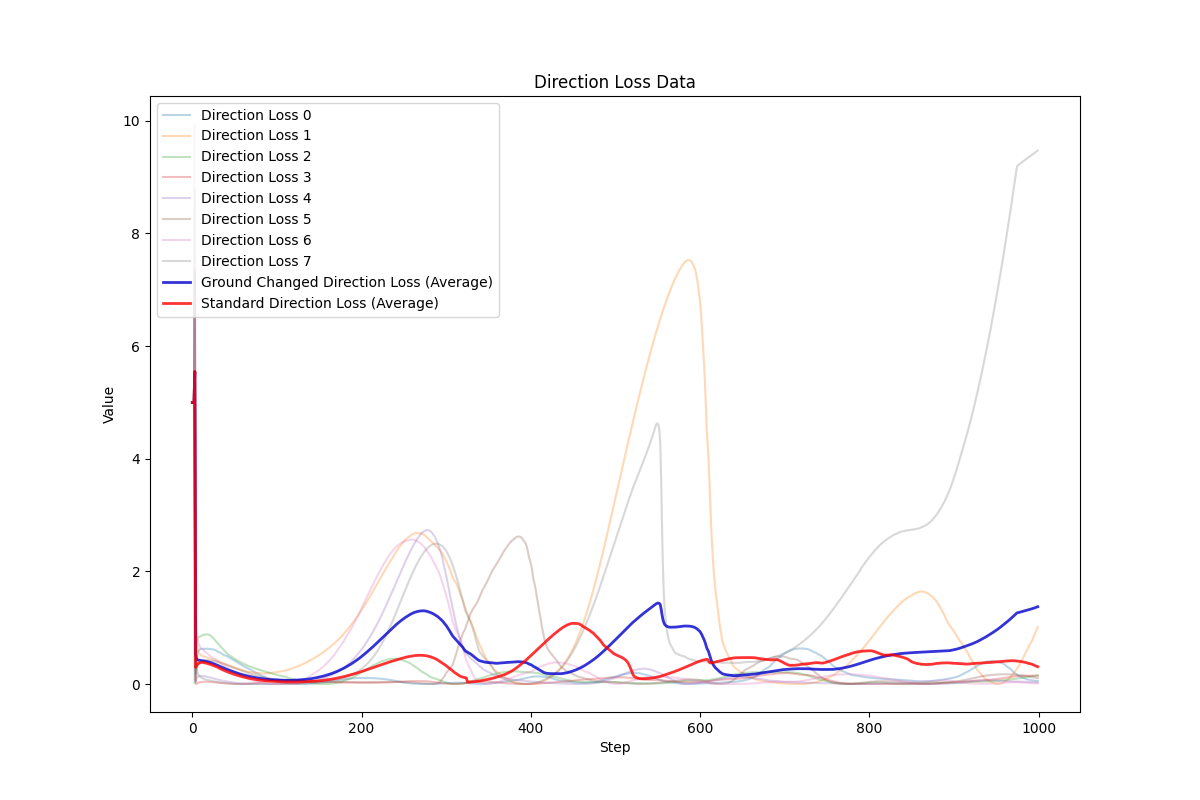
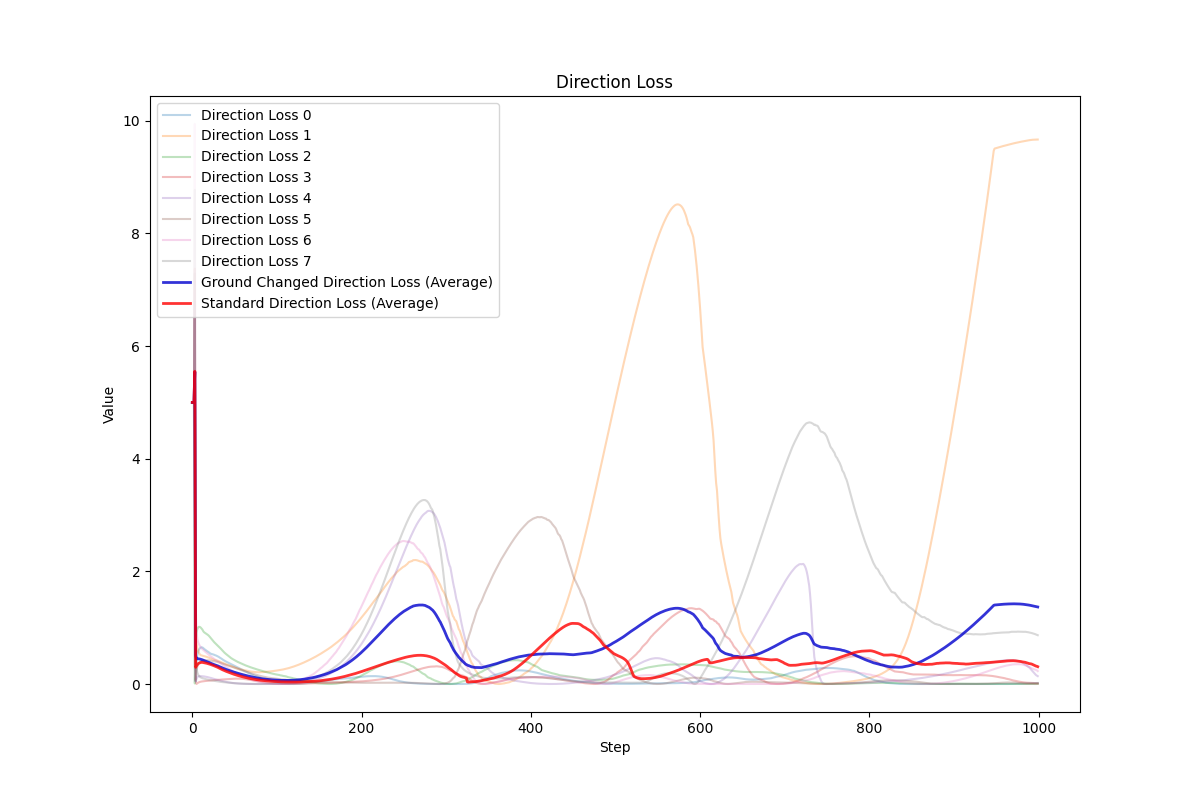
Update

diff --git a/aerial_gym/scripts/chart_maker.py b/aerial_gym/scripts/chart_maker.py
@@ -70,7 +70,7 @@ def main_test_moving():
     In order to compare changed test with original test.
     """
     # print("??????????")
-    ea = event_accumulator.EventAccumulator('/home/cgv841/wzm/FYP/AGAPG/paper_data/test_moving__2') 
+    ea = event_accumulator.EventAccumulator('/home/cgv841/wzm/FYP/AGAPG/paper_data/test_moving__1.5__h') 
     ea.Reload()
     # print(ea.scalars.Keys())
     # print("??????????")
@@ -79,18 +79,18 @@ def main_test_moving():
     data = defaultdict(list)
     
     for i in range(batch_size):
-        for data_name in ['Horizon Distance', 'Vertical Distance', 'Total Loss', 'Direction Loss', 'Speed Loss', 'Orientation Loss', 'Speed']:
+        for data_name in ['Horizon Distance', 'Vertical Distance', 'Total Loss', 'Direction Loss', 'Speed Loss', 'Orientation Loss', 'Speed', "Height"]:
             data_values = [j.value for j in ea.scalars.Items(f'{data_name}{i}')]
             data[data_name].append(data_values)
             
             
-    ea2 = event_accumulator.EventAccumulator('/home/cgv841/wzm/FYP/AGAPG/paper_data/test_main') 
+    ea2 = event_accumulator.EventAccumulator('/home/cgv841/wzm/FYP/AGAPG/paper_data/test_main__h') 
     ea2.Reload()
     
     data2 = defaultdict(list)
     
     for i in range(batch_size):
-        for data_name in ['Horizon Distance', 'Vertical Distance', 'Total Loss', 'Direction Loss', 'Speed Loss', 'Orientation Loss', 'Speed']:
+        for data_name in ['Horizon Distance', 'Vertical Distance', 'Total Loss', 'Direction Loss', 'Speed Loss', 'Orientation Loss', 'Speed', "Height"]:
             data_values = [j.value for j in ea2.scalars.Items(f'{data_name}{i}')]
             data2[data_name].append(data_values)
     
@@ -120,9 +120,71 @@ def main_test_moving():
         plt.legend()
         plt.xlabel('Step')
         plt.ylabel('Value')
-        plt.title(f'{key} Data')
-        plt.savefig(f'/home/cgv841/wzm/FYP/AGAPG/aerial_gym/scripts/charts_output/test_moving__2/{key}_plot.png')  # Save the plot to a file with the key name
+        plt.title(f'{key}')
+        plt.savefig(f'/home/cgv841/wzm/FYP/AGAPG/aerial_gym/scripts/charts_output/test_moving__1.5/{key}_plot.png')  # Save the plot to a file with the key name
         plt.close()
+    print("Complete!")
+    
+def main_test_movingVer2():
+    # print("??????????")
+    ea = event_accumulator.EventAccumulator('/home/cgv841/wzm/FYP/AGAPG/paper_data/test_moving__3__h') 
+    ea.Reload()
+    # print(ea.scalars.Keys())
+    # print("??????????")
+    batch_size = 8
+    
+    data = defaultdict(list)
+    
+    # Collect data for each type
+    for i in range(batch_size):
+        for data_name in ['Horizon Distance', 'Speed', "Height"]:
+            data_values = [j.value for j in ea.scalars.Items(f'{data_name}{i}')]
+            data[data_name].append(data_values)
+    
+    ea2 = event_accumulator.EventAccumulator('/home/cgv841/wzm/FYP/AGAPG/paper_data/test_main__h') 
+    ea2.Reload()
+    
+    data2 = defaultdict(list)
+    
+    for i in range(batch_size):
+        for data_name in ['Horizon Distance', 'Speed', "Height"]:
+            data_values = [j.value for j in ea2.scalars.Items(f'{data_name}{i}')]
+            data2[data_name].append(data_values)
+    
+    # Plot each type of data separately
+    plt.figure(figsize=(10, 7))  # Set the figure size wider and taller based on the number of data types
+    for idx, (key, val) in enumerate(data.items()):
+        plt.subplot(len(data), 1, idx + 1)  # Vertical arrangement with each data type in a separate row
+        average_curve = np.zeros(len(val[0]))  # Initialize an array to store the average curve
+        for batch_data in val:
+            plt.plot(batch_data, alpha=0.3)  # Original data with moderate transparency
+            average_curve += np.array(batch_data)
+            
+        val2 = data2[key]
+        for i, batch_data2 in enumerate(val2):
+            if i == 0:
+                average_curve2 = np.array(batch_data2)
+            else:
+                average_curve2 += np.array(batch_data2)
+        average_curve /= len(val)  # Calculate the average curve
+        average_curve2 /= len(val)
+        plt.plot(average_curve, label='Average', linewidth=2, color='#0000CD', alpha=0.8)  # Plot the average curve with higher transparency
+        plt.plot(average_curve2, label=f'Standard Average', linewidth=2, color='#FF0000', alpha=0.8)  # Plot the average curve with higher transparency
+        
+        plt.legend()
+        
+        plt.xlabel('Step')
+        if key == "Horizon Distance" or key == "Vertical Distance" or key == "Height":
+            plt.ylabel(key + '(m)')
+        elif key == "Speed":
+            plt.ylabel(key + '(m/s)')
+        else:
+            plt.ylabel(key)
+        # plt.title(f'{key}')
+
+    plt.tight_layout()  # Adjust layout to prevent overlapping
+    plt.savefig('/home/cgv841/wzm/FYP/AGAPG/aerial_gym/scripts/charts_output/test_moving__3.png')  # Save the combined plot to a single file
+    plt.close()
     print("Complete!")
 
 def main_test_ground():
@@ -187,7 +249,7 @@ def main_test_ground():
     
 def test_heightVer2():
     # print("??????????")
-    ea = event_accumulator.EventAccumulator('/home/cgv841/wzm/FYP/AGAPG/paper_data/test_ground') 
+    ea = event_accumulator.EventAccumulator('/home/cgv841/wzm/FYP/AGAPG/paper_data/test_height__h') 
     ea.Reload()
     # print(ea.scalars.Keys())
     # print("??????????")
@@ -197,17 +259,17 @@ def test_heightVer2():
     
     # Collect data for each type
     for i in range(batch_size):
-        for data_name in ['Horizon Distance', 'Vertical Distance', 'Speed', 'Total Loss', 'Direction Loss', 'Speed Loss', 'Orientation Loss']:
+        for data_name in ['Horizon Distance', 'Vertical Distance', 'Height', 'Speed', 'Total Loss', 'Direction Loss', 'Speed Loss', 'Orientation Loss']:
             data_values = [j.value for j in ea.scalars.Items(f'{data_name}{i}')]
             data[data_name].append(data_values)
     
-    ea2 = event_accumulator.EventAccumulator('/home/cgv841/wzm/FYP/AGAPG/paper_data/test_main') 
+    ea2 = event_accumulator.EventAccumulator('/home/cgv841/wzm/FYP/AGAPG/paper_data/test_main__h') 
     ea2.Reload()
     
     data2 = defaultdict(list)
     
     for i in range(batch_size):
-        for data_name in ['Horizon Distance', 'Vertical Distance', 'Speed', 'Total Loss', 'Direction Loss', 'Speed Loss', 'Orientation Loss']:
+        for data_name in ['Horizon Distance', 'Vertical Distance', 'Height', 'Speed', 'Total Loss', 'Direction Loss', 'Speed Loss', 'Orientation Loss']:
             data_values = [j.value for j in ea2.scalars.Items(f'{data_name}{i}')]
             data2[data_name].append(data_values)
     
@@ -225,7 +287,7 @@ def test_heightVer2():
             if i == 0:
                 average_curve2 = np.array(batch_data2)
             else:
-                average_curve2 += np.array(batch_data)
+                average_curve2 += np.array(batch_data2)
         average_curve /= len(val)  # Calculate the average curve
         average_curve2 /= len(val)
         plt.plot(average_curve, label='Average', linewidth=2, color='#0000CD', alpha=0.8)  # Plot the average curve with higher transparency
@@ -243,7 +305,7 @@ def test_heightVer2():
         # plt.title(f'{key}')
 
     plt.tight_layout()  # Adjust layout to prevent overlapping
-    plt.savefig('/home/cgv841/wzm/FYP/AGAPG/aerial_gym/scripts/charts_output/test_ground.png')  # Save the combined plot to a single file
+    plt.savefig('/home/cgv841/wzm/FYP/AGAPG/aerial_gym/scripts/charts_output/test_height.png')  # Save the combined plot to a single file
     plt.close()
     print("Complete!")
     
@@ -313,7 +375,7 @@ def test_groundVer2():
 
 def main_test():
     # print("??????????")
-    ea = event_accumulator.EventAccumulator('/home/cgv841/wzm/FYP/AGAPG/paper_data/test_main') 
+    ea = event_accumulator.EventAccumulator('/home/cgv841/wzm/FYP/AGAPG/paper_data/test_main__h') 
     ea.Reload()
     # print(ea.scalars.Keys())
     # print("??????????")
@@ -323,7 +385,7 @@ def main_test():
     
     # Collect data for each type
     for i in range(batch_size):
-        for data_name in ['Horizon Distance', 'Vertical Distance', 'Speed', 'Total Loss', 'Direction Loss', 'Speed Loss', 'Orientation Loss']:
+        for data_name in ['Horizon Distance', 'Vertical Distance', 'Speed', 'Height', 'Total Loss', 'Direction Loss', 'Speed Loss', 'Orientation Loss']:
             data_values = [j.value for j in ea.scalars.Items(f'{data_name}{i}')]
             data[data_name].append(data_values)
     
@@ -392,6 +454,54 @@ def main_trainVer2():
     plt.savefig('/home/cgv841/wzm/FYP/AGAPG/aerial_gym/scripts/charts_output/main_train.png')  # Save the plot
     plt.show()
     print("Complete!")
+    
+    
+def main_pretrain():
+    #加载日志数据
+    ea = event_accumulator.EventAccumulator('/home/cgv841/wzm/FYP/AGAPG/paper_data/train_nopretrain') 
+    ea.Reload()
+    print(ea.scalars.Keys())
+    
+    ea2 = event_accumulator.EventAccumulator('/home/cgv841/wzm/FYP/AGAPG/paper_data/train_pretrain') 
+    ea2.Reload()
+
+    # Get scalar data
+    num_reset = ea.scalars.Items("Number Reset")
+    average_loss = ea.scalars.Items('Ave Loss')
+    average_hor_dis = ea.scalars.Items('Val Average Distance')
+    
+    num_reset2 = ea2.scalars.Items("Number Reset")
+    average_loss2 = ea2.scalars.Items('Ave Loss')
+    average_hor_dis2 = ea2.scalars.Items('Val Average Distance')
+    
+
+    # Plotting
+    plt.figure(figsize=(10, 10))  # Set a wider figure
+    plt.subplot(3, 1, 1)  # Vertical arrangement with 3 rows, 1 column, plot 1
+    plt.plot([i.step for i in average_loss], [i.value for i in average_loss], label='no pre-train', color='#FF0000', alpha=0.8)
+    plt.plot([i.step for i in average_loss2], [i.value for i in average_loss2], label='pre-train', color='#0000CD', alpha=0.8)
+    plt.xlabel('Epoch')
+    plt.ylabel('(a) Average Loss')
+    plt.legend()
+
+    plt.subplot(3, 1, 2)  # Vertical arrangement with 3 rows, 1 column, plot 2
+    plt.plot([i.step for i in average_hor_dis], [i.value for i in average_hor_dis], label='no pre-train', color='#FF0000', alpha=0.8)
+    plt.plot([i.step for i in average_hor_dis2], [i.value for i in average_hor_dis2], label='pre-train', color='#0000CD', alpha=0.8)
+    plt.xlabel('Epoch')
+    plt.ylabel('(b) Average Horizontal Distance')
+    plt.legend()
+
+    plt.subplot(3, 1, 3)  # Vertical arrangement with 3 rows, 1 column, plot 3
+    plt.plot([i.step for i in num_reset], [i.value for i in num_reset], label='no pre-train', color='#FF0000', alpha=0.8)
+    plt.plot([i.step for i in num_reset2], [i.value for i in num_reset2], label='pre-train', color='#0000CD', alpha=0.8)
+    plt.xlabel('Epoch')
+    plt.ylabel('(c) Reset Number')
+    plt.legend()
+
+    plt.tight_layout()  # Adjust layout to prevent overlapping
+    plt.savefig('/home/cgv841/wzm/FYP/AGAPG/aerial_gym/scripts/charts_output/main_pretrain.png')  # Save the plot
+    plt.show()
+    print("Complete!")
 
 def main_train():
     #加载日志数据
@@ -436,6 +546,8 @@ if __name__ == "__main__":
     # main_train()
     # main_test()
     # main_trainVer2()
-    # main_test_moving()
+    # main_test_movingVer2()
+    # main_pretrain()
     # main_test_height()
-    test_groundVer2()
+    # test_groundVer2()
+    test_heightVer2()

diff --git a/aerial_gym/scripts/test_moving.py b/aerial_gym/scripts/test_moving.py
@@ -29,8 +29,8 @@ from aerial_gym.envs import IsaacGymDynamics
 # os.path.basename(__file__).rstrip(".py")
 def get_args():
     custom_parameters = [
-        {"name": "--task", "type": str, "default": "track_groundVer10", "help": "The name of the task."},
-        {"name": "--experiment_name", "type": str, "default": "test_height__h", "help": "Name of the experiment to run or load."},
+        {"name": "--task", "type": str, "default": "track_groundVer9", "help": "The name of the task."},
+        {"name": "--experiment_name", "type": str, "default": "test_moving__1", "help": "Name of the experiment to run or load."},
         {"name": "--headless", "action": "store_true", "default": True, "help": "Force display off at all times"},
         {"name": "--horovod", "action": "store_true", "default": False, "help": "Use horovod for multi-gpu training"},
         {"name": "--num_envs", "type": int, "default": 8, "help": "Number of environments to create. Batch size will be equal to this"},

diff --git a/aerial_gym/envs/base/track_groundVer10.py b/aerial_gym/envs/base/track_groundVer10.py
@@ -309,8 +309,8 @@ class TrackGroundVer10(BaseTask):
         self.root_states[env_ids, 0:2] = rand_circle_point(num_resets, 5, self.device)
         # self.root_states[env_ids, 0:2] = 3.0 * torch_rand_float(-1.0, 1.0, (num_resets, 2), self.device)
         # self.root_states[env_ids, 0:2] = 0
-        # self.root_states[env_ids, 2] = 5.5
-        self.root_states[env_ids, 2] = 7
+        self.root_states[env_ids, 2] = 5.5
+        # self.root_states[env_ids, 2] = 7
         # reset linevels
         # self.root_states[env_ids, 7:10] = 0.2*torch_rand_float(-1.0, 1.0, (num_resets, 3), self.device)
         self.root_states[env_ids, 7:10] = 0

diff --git a/aerial_gym/envs/base/track_groundVer9.py b/aerial_gym/envs/base/track_groundVer9.py
@@ -101,7 +101,7 @@ class TrackGroundVer9(BaseTask):
             
             self.gym.viewer_camera_look_at(self.viewer, None, cam_pos, cam_target)
         
-        self.tar_dir = rand_circle_point(self.num_envs, 2, self.device)
+        self.tar_dir = rand_circle_point(self.num_envs, 1, self.device)
 
 
     def create_sim(self):
@@ -259,7 +259,7 @@ class TrackGroundVer9(BaseTask):
         self.tar_root_states[:, 10:13] = 0
         # reset quats
         self.tar_root_states[:, 3:7] = 0
-        self.tar_root_states[:, 6] = 1.0
+        self.tar_root_states[:, 6] = 2
 
         self.render(sync_frame_time=False)
         

diff --git a/aerial_gym/envs/base/track_groundVer7.py b/aerial_gym/envs/base/track_groundVer7.py
@@ -311,6 +311,7 @@ class TrackGroundVer7(BaseTask):
         # self.root_states[env_ids, 0:2] = 3.0 * torch_rand_float(-1.0, 1.0, (num_resets, 2), self.device)
         # self.root_states[env_ids, 0:2] = 0
         self.root_states[env_ids, 2] = 7
+        # self.root_states[env_ids, 2] = 5.5
         # reset linevels
         # self.root_states[env_ids, 7:10] = 0.2*torch_rand_float(-1.0, 1.0, (num_resets, 3), self.device)
         self.root_states[env_ids, 7:10] = 0

diff --git a/aerial_gym/envs/base/track_ground_config.py b/aerial_gym/envs/base/track_ground_config.py
@@ -61,7 +61,7 @@ class TrackGroundCfg(BaseConfig):
         armature = 0.001
 
     class tar_asset:
-        file = "{AERIAL_GYM_ROOT_DIR}/resources/robots/quad/tar.urdf"
+        file = "{AERIAL_GYM_ROOT_DIR}/resources/robots/quad/model.urdf"
         name = "target"  # actor nametar
         base_link_name = "base_link"
         foot_name = "None" # name of the feet bodies, used to index body state and contact force tensors
